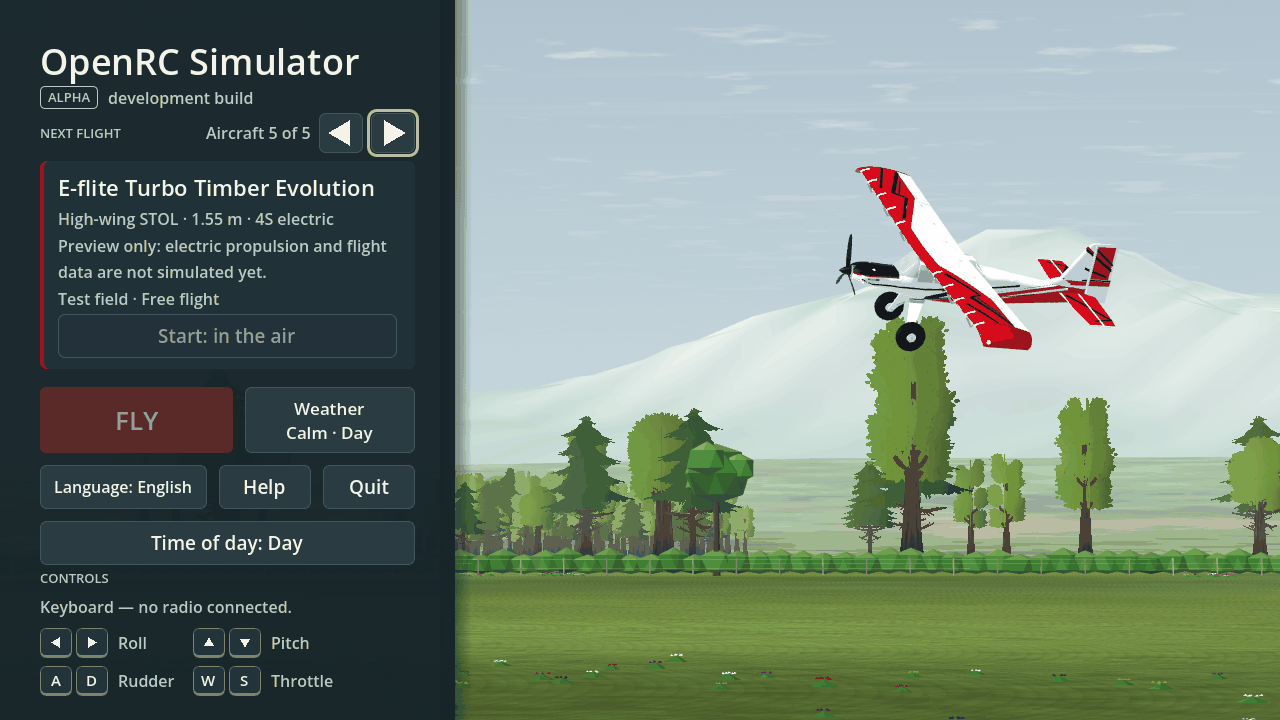
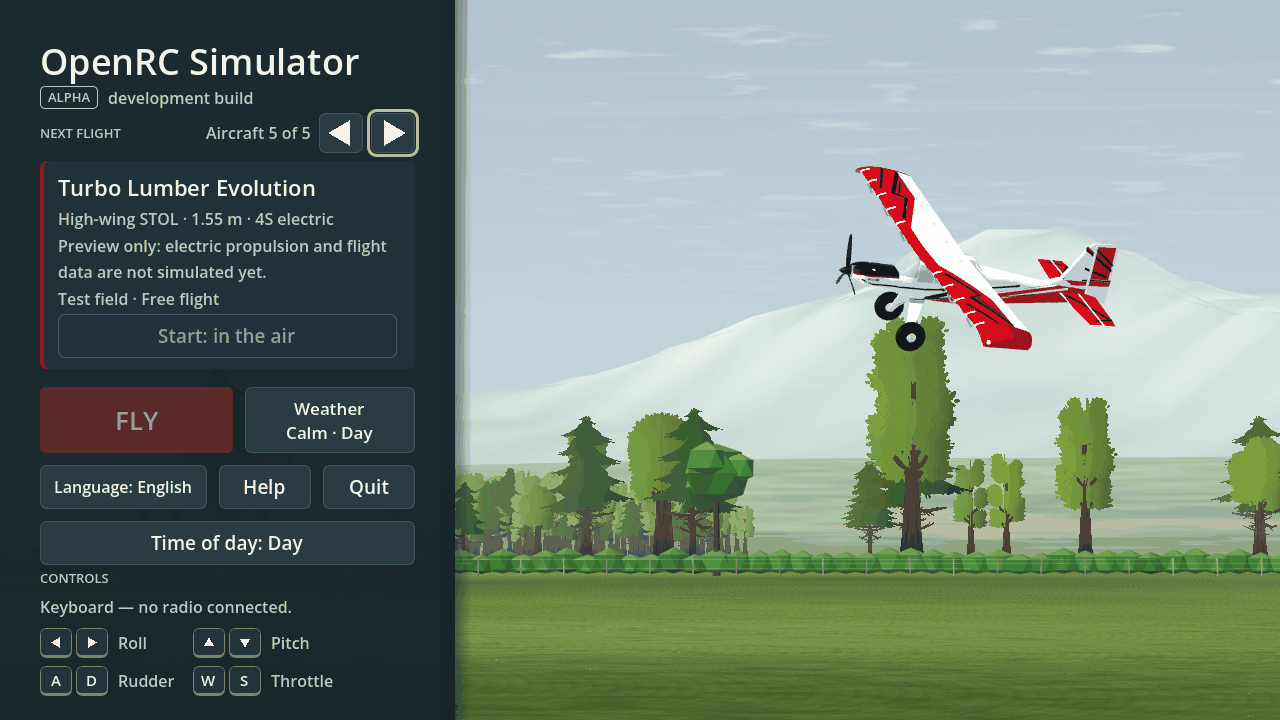
Refactor code structure for improved readability and maintainability

diff --git a/docs/research/menu-investigations/UI-16/README.md b/docs/research/menu-investigations/UI-16/README.md
@@ -1,6 +1,6 @@
 # UI-16 · Update notice
 
-**Date:** 2026-10-12. **Status:** implemented, software-verified and shown by an exported Linux build against the real GitHub API under Xvfb; native Windows/macOS launch of the exported notice is pending (DT-12 rehearsal). **Plan:** [MENU-PLAN](../../../MENU-PLAN.md#delivery-evidence). **Owner request (Spanish):** a small, elegant, unobtrusive notice when the player's version is old and a newer one is available, for the three platforms; manual update is acceptable.
+**Date:** 2026-10-12. **Status:** implemented, software-verified and shown by an exported Linux build against the real GitHub API under Xvfb; reviewed independently and repaired (UI-16-R1, below); native Windows/macOS launch of the exported notice is pending (DT-12 rehearsal). **Plan:** [MENU-PLAN](../../../MENU-PLAN.md#delivery-evidence). **Owner request (Spanish):** a small, elegant, unobtrusive notice when the player's version is old and a newer one is available, for the three platforms; manual update is acceptable.
 
 ## What was built
 
@@ -26,7 +26,8 @@ Updating stays manual: the release page carries the three ZIPs, `SHA256SUMS` and
 
 - **Once a day, by time.** The cache stores the last successful check; failures keep the old date so the next launch tries again. The ETag is kept for bandwidth, not for rate limits.
 - **Channels.** A prerelease build (every build so far) sees the newest prerelease or release; a release build sees only releases. A CI build between two tags (`0.1.0-rc7+12.gabc1234`) counts as its tag.
-- **Nothing moves, nothing waits.** The card hangs from Home's top-right anchors over the backdrop, so the column and the Fly focus are untouched; the request runs on a thread with a 10 s timeout and a 2 MB body limit.
+- **Nothing moves, nothing waits.** The card hangs from Home's top-right anchors over the backdrop, so the column and the Fly focus are untouched; the request runs unthreaded (a little per frame, never a thread join), with a 10 s timeout and a 2 MB body limit.
+- **The cache belongs to one build.** `for_version` records the build the selection was made for; another build starts from a fresh answer, keeping only the hidden tag. `notice()` also refuses a prerelease to a release build on its own, whatever the cache says.
 - **Privacy.** One anonymous request; the `User-Agent` names the app version and OS, as GitHub requires a user agent. No account, no telemetry. `[updates] check=false` turns it off; the Settings screen (UI-24) will expose it.
 - **Trust.** The API answer is data: only release-page URLs under the project are opened; the browser, not the app, downloads the ZIP next to its checksums.
 
@@ -34,20 +35,40 @@ Updating stays manual: the release page carries the three ZIPs, `SHA256SUMS` and
 
 | Check | Result |
 | --- | --- |
-| `tests/test_update_check.gd`: parsing, 21 versions ordered pairwise (441 comparisons), selection with the real fixture and a mixed synthetic list, cache file round trip and corruption, the daily rule, headers; the checker end to end against a local fake of the API (200 → notice, +1 h cached, +25 h ETag → 304, Hide, a newly published rc8, running rc8, offline) | 53 checks pass, exit 0, no engine errors |
-| `tests/test_ui_update_notice.gd`: the card (EN/ES texts, contrast ≥ 4.5:1 on its surface, anchors, Fly keeps focus, Enter on Download/Hide with real key events); the interactive route (development run never checks; fake API → card over Home; Download through `app_root`; Home → Fly → End flight keeps the card; Hide remembered in the cache; `[updates] check=false` makes no request) | 24 checks pass, exit 0 |
+| `tests/test_update_check.gd`: parsing (including 20-digit components), 21 versions ordered pairwise (441 comparisons), selection with the real fixture and a mixed synthetic list, the notice rules (hidden, untrusted or unsafe URL, capital V, cached prerelease vs release build, `state_for`), cache file round trip and corruption, the daily rule, headers; the checker end to end against a local fake of the API (200 → notice, +1 h cached, +25 h ETag → 304, Hide, a newly published rc8, a withdrawn rc8, another build's cache, a 403 that waits a day, a silent server that times out at 2 s with frames running, offline) | 65 checks pass, exit 0, no engine errors |
+| `tests/test_ui_update_notice.gd`: the card (EN/ES texts, contrast ≥ 4.5:1 on its surface, anchors, Fly keeps focus, Enter on Download/Hide with real key events, focus back on Fly after Hide); the interactive route (development run never checks; fake API → card over Home; Download through `app_root`; a browser that cannot open is reported on Home; withdraw/announce wiring; Home → Fly → End flight keeps the card; Hide remembered in the cache; `[updates] check=false` makes no request) | 28 checks pass, exit 0 |
 | The 24 shell, preferences and input tests that could see this change (`test_ui_*`, `test_controls_reference`, `test_field_integration`, `test_treeline`, `test_e2e_input`, `test_e2e_radio`, `test_build_info` and the two above), run one after another with nothing else on the machine | 24/24 pass. A first pass run while a direct-route smoke was flying in parallel failed two wall-clock/`user://` checks (`test_ui_help` hint timing, `test_ui_runway` file comparison); both pass alone, as [LEARNINGS](../../../learnings/runtime-and-delivery.md#godot-execution-and-test-isolation) warns about concurrent Godot runs |
 | `app/test.sh` (full headless suite) | Import, generator, float64 guard, shader and parse checks of every script pass; the runner then stops at the pre-existing `test_atmosphere_flight.gd` failure (`reset recomputes a fresh trim for the extreme density`, a physics check that does not touch the shell, already recorded as the baseline failure in [UI-06d](../UI-06d/README.md) on 2026-10-11), before the UI tests in alphabetical order. Hence the subset run above |
 | Direct route `-- --trace=… --t=3` | Trimmed level flight (720 ticks, 3.000 s, all samples finite), no engine error, no update cache file in the user data folder: the check never runs on technical routes |
 | Captures under Xvfb (software OpenGL, `tests/capture_ui.gd --screen=home --update=v0.1.0-rc8`) | [EN 1280×720](ui-home-update-en-1280.jpg), [ES 1280×720](ui-home-update-es-1280.jpg), [EN 1920×1080](ui-home-update-en-1920.jpg); SHA-256 in [captures.sha256](captures.sha256) |
 | **Exported Linux build, real GitHub API.** `--export-release Linux` with the `OPENRC_BUILD_*` identity of this tree (`v0.1.0-rc6-58-gc9d302e-dirty`: the local clone's newest tag is rc6), run under Xvfb with an isolated `XDG_DATA_HOME` and no environment override, screen read from the Xvfb framebuffer after 20 s | The card says **Update available: 0.1.0-rc7** over Home ([screen](ui-home-update-export-real-rc7.jpg)); the cache the build wrote ([export-real-update_check.cfg](export-real-update_check.cfg)) records `200 ok`, GitHub's ETag and `latest tag v0.1.0-rc7`, so TLS, gzip, parsing and the daily rule all work from the exported engine; no engine error in the log |
 | Exported Linux build, `OPENRC_UPDATE_URL` at a local static list with an added rc8 | Card **0.1.0-rc8** ([screen](ui-home-update-export-fake-rc8.jpg)); the server log shows the single `GET /releases?per_page=10`; cache `latest tag v0.1.0-rc8` |
+| **After UI-16-R1** (unthreaded request, frame-counted timeout): exported Linux build `v0.1.0-rc6-67-gf0d1442-dirty`, real GitHub API, same Xvfb procedure | Card **0.1.0-rc7** again ([screen](ui-home-update-export-real-rc7-r1.jpg)); [cache](export-real-update_check-r1.cfg) records `200 ok`, the ETag, `for_version 0.1.0-rc6+67.gf0d1442.dirty`, `latest v0.1.0-rc7`, `prerelease true` |
 
 The captures show the card at x = 821 on a 1280-wide Home (right of the 440 px column), the Spanish sentence on one line, and the same card at 1080p without scaling (UI-23 owns scaling). The exported-build screens also show, unrelated to UI-16, that the UI-06d default weather summary (`1.5 m/s · 090° +0.6 + Turbulence · Evening, time passing`) widens Home's column past its 440 px panel; that belongs to the menu track's layout work (UI-25).
 
+## UI-16-R1 · Independent review and audit (2026-10-12)
+
+A second agent reviewed the code without the author's conclusions, with read-only probes on the pinned engine. The owner also asked for an audit with pictures: [audit/](audit/captures.sha256) holds 16 captures (Home with each of the five catalog aircraft and the card, EN/ES; Help EN/ES; pause; the first flight with its hint; the weather editor; Home at 1080p). The card is identical with every aircraft, shows only on Home, and sits at the corner without scaling at 1080p.
+
+| Finding | Severity | Repair |
+| --- | --- | --- |
+| `use_threads = true` runs the worker in blocking reads: a peer that accepts and then stays silent makes the 10 s timeout and the quit path wait forever on the thread join (reproduced by the reviewer with a silent server: main thread in `futex_wait`, process killed after 22 s) | bug, high | Unthreaded request (non-blocking per frame); `timeout_s` seam; `fake_releases.gd` gains `silent`; test: timeout fires at 2 s, frames keep running, next launch retries |
+| The cache stored a selection made for one build while the ETag validates the list: after installing a release build, 304 kept offering the prerelease the rc build had cached (and the reverse) | bug, medium | `for_version` in the cache; another build starts fresh (`state_for`); `latest_prerelease` stored; `notice()` never offers a prerelease to a release build; tests |
+| A 20-digit core component saturates `int()` with an engine `ERROR:` line on every launch and parses as the newest release | bug, low | Components longer than 18 digits are rejected; test |
+| HTTP error statuses (403 rate limit, 404, 5xx) were retried on every launch | risk | Any HTTP answer records the date (one try a day); transport errors still retry next launch; test with a 403 |
+| `OPENRC_UPDATE_URL` reached `request()` unvalidated (engine error on a bad scheme) | risk | Only `http(s)://` sources are accepted, else one console line |
+| Frame-count caps in the tests are not seconds (145 fps headless) | risk, tests | Wall-clock caps of 15 s |
+| Found while re-testing the unthreaded request on the exported build: `HTTPRequest.timeout` is wall clock, and the long first frames of a cold start (shader compilation, scenery under software OpenGL) spent the 10 s before the request had run; the real-API run ended in `transport error 13` ([cache](export-real-update_check-r1-wallclock-timeout.cfg)) | bug, medium | The engine timeout is off; the checker counts processed frames in `_process`, each capped at 50 ms, so a stalled frame costs 50 ms of the budget instead of its whole length; the silent-server test still times out at 2 s |
+| Nits: no withdrawal when a fresh answer says nothing is newer; `V` prefix shown; `hide_update()` unused; checker started without a Home (field errors); browser error dropped; raw URL to `shell_open`; focus lost after Hide | nit | Withdrawal signal hides the card; `V` trimmed; `hide_update()` now called; guard on `home == null`; a note on Home when the browser cannot open; URLs with whitespace/control/quote characters fall back to the releases page; Hide returns the keyboard to Fly |
+
+Found correct by the review: API names and Callable use, signal names, SemVer table, selection rules on fresh answers, cache typing and fallbacks, request lifecycle and `_announced_tag`, privacy (what leaves the machine), the preference and theme hooks, translation and test isolation. The reviewer's probes live outside the repository.
+
+Observations outside UI-16 from the audit pictures, for the menu track (UI-25): the P-51 and Avanti status notes push the CONTROLS legend below 720 px, and the UI-06d default weather summary widens the column past its panel.
+
 ## Limits and next steps
 
-- Linux only: the exported-build proof ran on this Ubuntu VM with software OpenGL. No native Windows/macOS launch of an exported build with the notice yet; DT-12 should include one launch of an older exported build after a newer tag exists, on each platform, and a click on Download (the browser hand-off is untested here: `OS.shell_open` was replaced by a seam in the tests).
+- Linux only: the exported-build proof ran on this Ubuntu VM with software OpenGL (repeated after UI-16-R1 with the unthreaded request: see the last proof row). No native Windows/macOS launch of an exported build with the notice yet; DT-12 should include one launch of an older exported build after a newer tag exists, on each platform, and a click on Download (the browser hand-off is untested here: `OS.shell_open` was replaced by a seam in the tests).
 - The 24 h rule depends on the system clock; a clock set back only causes one extra check.
 - The macOS bundle is not notarized and Windows has no signature, so the downloaded update meets the same first-launch warnings as the first download.
 - Open for the owner: a stable/rc channel preference once a release exists; exposing the toggle in UI-24 Settings; a toast restyle with motion in UI-28.

diff --git a/docs/learnings/runtime-and-delivery.md b/docs/learnings/runtime-and-delivery.md
@@ -50,7 +50,7 @@
 
 ## Clean builds and desktop evidence
 
-- **An update check reads the release list; it cannot ask for "latest".** GitHub's `/releases/latest` returns the newest non-prerelease release, so a project that only publishes prereleases gets 404: list the releases and order them locally, skipping drafts. A conditional request with the cached ETag answers 304 without a body but still counts against the anonymous 60/h limit, so throttle by time (once a day) rather than relying on 304. Godot 4.7's `HTTPRequest` reaches `api.github.com` from the engine's bundled CA set and decodes gzip; it must be inside the tree before `request()` (calling from `_initialize()` returns `ERR_UNCONFIGURED`), and `JSON.parse_string` prints an engine `ERROR:` on bad input that the test runner treats as a failure, so parse with a `JSON` instance. [UI-16](../research/menu-investigations/UI-16/README.md).
+- **An update check reads the release list; it cannot ask for "latest".** GitHub's `/releases/latest` returns the newest non-prerelease release, so a project that only publishes prereleases gets 404: list the releases and order them locally, skipping drafts. A conditional request with the cached ETag answers 304 without a body but still counts against the anonymous 60/h limit, so throttle by time (once a day) rather than relying on 304. Godot 4.7's `HTTPRequest` reaches `api.github.com` from the engine's bundled CA set and decodes gzip; it must be inside the tree before `request()` (calling from `_initialize()` returns `ERR_UNCONFIGURED`), and `JSON.parse_string` prints an engine `ERROR:` on bad input that the test runner treats as a failure, so parse with a `JSON` instance. Never set `use_threads` on a desktop `HTTPRequest`: the worker reads in blocking mode, so a peer that accepts and then stays silent makes `timeout` and quitting the app wait forever on the thread join; unthreaded, the request works a little per frame and the timeout really fires. Do not rely on `HTTPRequest.timeout` for a request started at launch: it is wall clock, and a cold start's first frames (shader compilation, scenery) can spend it before the request runs; count processed frames with a per-frame cap instead. A test for a timeout needs a server that accepts and never answers, not a closed port. [UI-16](../research/menu-investigations/UI-16/README.md).
 
 - **Local CI is not a fresh checkout.** `act` copied ignored/untracked folders, hiding a missing capture directory that failed on GitHub. System Pillow also masked a missing CI dependency. Create output directories explicitly, use the pinned isolated visual environment, and verify generated/imported assets from a fresh checkout. [VQ-01a](../research/visual-quality-implementation/VQ-01a/README.md), [capture runner](../../app/capture.sh). A disposable validation snapshot also needs a valid Git HEAD for build-identity tests; freeze generators and their inputs together with generated app data, or a mixed snapshot can falsely report stale artifacts. [CR-22a](../research/crash-damage-investigations/CR-22a/README.md).
 

diff --git a/docs/TIMBER-INTEGRATION-PLAN.md b/docs/TIMBER-INTEGRATION-PLAN.md
@@ -2,7 +2,7 @@
 
 2026-10-12 · Revision 4 · Step prefix: **TT-** · Owned paths: `assets/aircraft/turbo-lumber-evolution/`, `research/timber/`, `app/assets/aircraft/turbo-lumber-evolution/`, `app/aircraft/timber_*.gd`, `app/aircraft/verify_timber.gd`, `app/aircraft/inspect_timber.gd`, generated `app/data/aircraft/turbo_lumber_evolution.json`, `app/tests/test_timber_*.gd`, `docs/research/timber-integration/`. Shared changes stay with their owners (§6).
 
-**Status: TT-00, TT-00-R1, TT-01, TT-02, TT-03 and TT-05 complete (2026-10-12): the r1 asset is frozen by hash, measured on the imported scene, copied into `app/`, built by `timber_model.gd` with proven signs, propeller sense and gear wrappers, and checked by `verify_timber.gd` (283 checks) in `app/test.sh`. TT-06 (2026-10-12) registers the PREVIEW catalog entry, the `render/airplane.gd` dispatch and the `flyable_ids()` test sweep (21 shared files, every targeted test green). Owner reviews pending: the silhouette overlay (TT-02), the capture set (TT-03) and the shared-test edits (TT-06). Next step: TT-07 (first physics dataset).**
+**Status: TT-00, TT-00-R1, TT-01, TT-02, TT-03 and TT-05 complete (2026-10-12): the r1 asset is frozen by hash, measured on the imported scene, copied into `app/`, built by `timber_model.gd` with proven signs, propeller sense and gear wrappers, and checked by `verify_timber.gd` (283 checks) in `app/test.sh`. TT-06 (2026-10-12) registers the PREVIEW catalog entry, the `render/airplane.gd` dispatch and the `flyable_ids()` test sweep (21 shared files, every targeted test green); the same day the owner chose the in-app name "Turbo Lumber Evolution" / "Turbo Tronco Evolución" and the ID `turbo-lumber-evolution` (§1). Owner reviews pending: the silhouette overlay (TT-02), the capture set (TT-03) and the shared-test edits (TT-06). Next step: TT-07 (first physics dataset).**
 
 Independent aircraft track; it does not change ROADMAP priorities. Evidence: [TT-00](research/timber-integration/TT-00/README.md), [primary sources](research/timber-integration/TT-00/sources.md), [code seams](research/timber-integration/TT-00/code-audit.md), [r1 review](research/timber-integration/TT-00-R1/README.md), [r1 contract review](research/timber-integration/TT-00-R1/contract-review.md). Shared dependencies: [electric propulsion](ELECTRIC-PROPULSION-PLAN.md) and its [EL1f handoff](research/propulsion/EL1f/README.md), [aircraft contract](../AIRCRAFT_CONTRACT.md), [integrated ground model](research/ground-physics/GP-05/README.md). The v12 Blender/CAD analysis, the millimetre CAD mapping and the presentation-pose warnings of Revision 3 are retained in TT-00; r1 supersedes them with explicit frames.
 

diff --git a/docs/research/timber-integration/TT-06/README.md b/docs/research/timber-integration/TT-06/README.md
@@ -6,9 +6,9 @@
 
 | File | Change |
 | --- | --- |
-| `app/app_state/aircraft_catalog.gd` | Fifth entry `turbo-lumber-evolution` ("E-flite Turbo Timber Evolution", PREVIEW, `data = ""`, status note "Preview only: electric propulsion and flight data are not simulated yet."); `flyable_entries()` and `flyable_ids()` return the entries that carry data, in menu order |
+| `app/app_state/aircraft_catalog.gd` | Fifth entry `turbo-lumber-evolution` (name "Turbo Lumber Evolution", Spanish "Turbo Tronco Evolución" through `es.po`: the fictional name the owner chose on 2026-10-12 so the product carries no manufacturer trademark; PREVIEW, `data = ""`, status note "Preview only: electric propulsion and flight data are not simulated yet."); `flyable_entries()` and `flyable_ids()` return the entries that carry data, in menu order. The entry was first registered as `eflite-turbo-timber-evolution` and renamed the same day together with the asset folders `*/aircraft/turbo-timber-evolution/` → `turbo-lumber-evolution/`; the delivery folder and the internal codename "Timber" are unchanged |
 | `app/render/airplane.gd` | `TIMBER_ID`, `Timber` preload; `build()` dispatches to `timber_model.gd`; `datum()` is `(0, 0)` (the imported scene sits at D0); `apply_surfaces()` routes the Timber (and the Avanti) to their degree-based `apply_surfaces` |
-| `app/i18n/es.po` | Spanish summary and status note |
+| `app/i18n/es.po` | Spanish name, summary and status note |
 | `app/tests/test_aircraft_catalog.gd` | Five IDs, four flyable, wrap on the last ID, adapter list with `TIMBER_ID`; a preview may carry a real propeller (`has_propeller == propeller.visible`) |
 | `app/tests/test_projected_shadow.gd`, `test_world_field_lights.gd` | `TIMBER_ID` in the explicit lists (shadow footprint and night kit on the imported mesh) |
 | `app/tests/test_aircraft_contract.gd`, `test_trace_metadata.gd`, `test_contact_policy.gd`, `test_aero_flow.gd`, `test_slipstream_scalar.gd`, `test_strip_induced.gd`, `test_wash_transport.gd`, `test_propulsion_scalar.gd`, `test_attached_flow.gd`, `test_aircraft_render_contract.gd`, `test_shaft_data.gd` | Iterate `flyable_entries()` / `flyable_ids()` (one line each): previews carry no data file. `test_contact_policy` compares its screened list with `flyable_ids()` |

diff --git a/docs/MENU-PLAN.md b/docs/MENU-PLAN.md
@@ -41,7 +41,7 @@ The update notice (UI-16) reads that identity. On the interactive route of an ex
 | UI-06a-R1 / c-R1 | Checkpoint launch-attribution repair and refreshed package proof | [Repair](research/menu-investigations/UI-06a-R1/README.md), [export](research/menu-investigations/UI-06c-R1/README.md) |
 | UI-06d | Current interactive defaults, existing options enabled without physics tuning | [Default profile evidence](research/menu-investigations/UI-06d/README.md) |
 | UI-20/21 | Shell audit and shared-screen refactor with unchanged visual/flight results | [Audit](research/menu-investigations/UI-20/README.md), [implementation](research/menu-investigations/UI-21/README.md) |
-| UI-16 | Update notice: once-a-day GitHub release check in exported builds, top-right card with Download/Hide, `[updates] check` opt-out; manual download | [Rules and checker](../app/tests/test_update_check.gd), [card and route](../app/tests/test_ui_update_notice.gd), [evidence](research/menu-investigations/UI-16/README.md) |
+| UI-16, UI-16-R1 | Update notice: once-a-day GitHub release check in exported builds, top-right card with Download/Hide, `[updates] check` opt-out; manual download; R1 repairs from the independent review (unthreaded request, per-build cache) | [Rules and checker](../app/tests/test_update_check.gd), [card and route](../app/tests/test_ui_update_notice.gd), [evidence](research/menu-investigations/UI-16/README.md) |
 
 Original research and executed engine probes: [menu investigations](research/menu-investigations/README.md). They are dated evidence; current code supersedes their older catalog, pause and layout descriptions.
 
